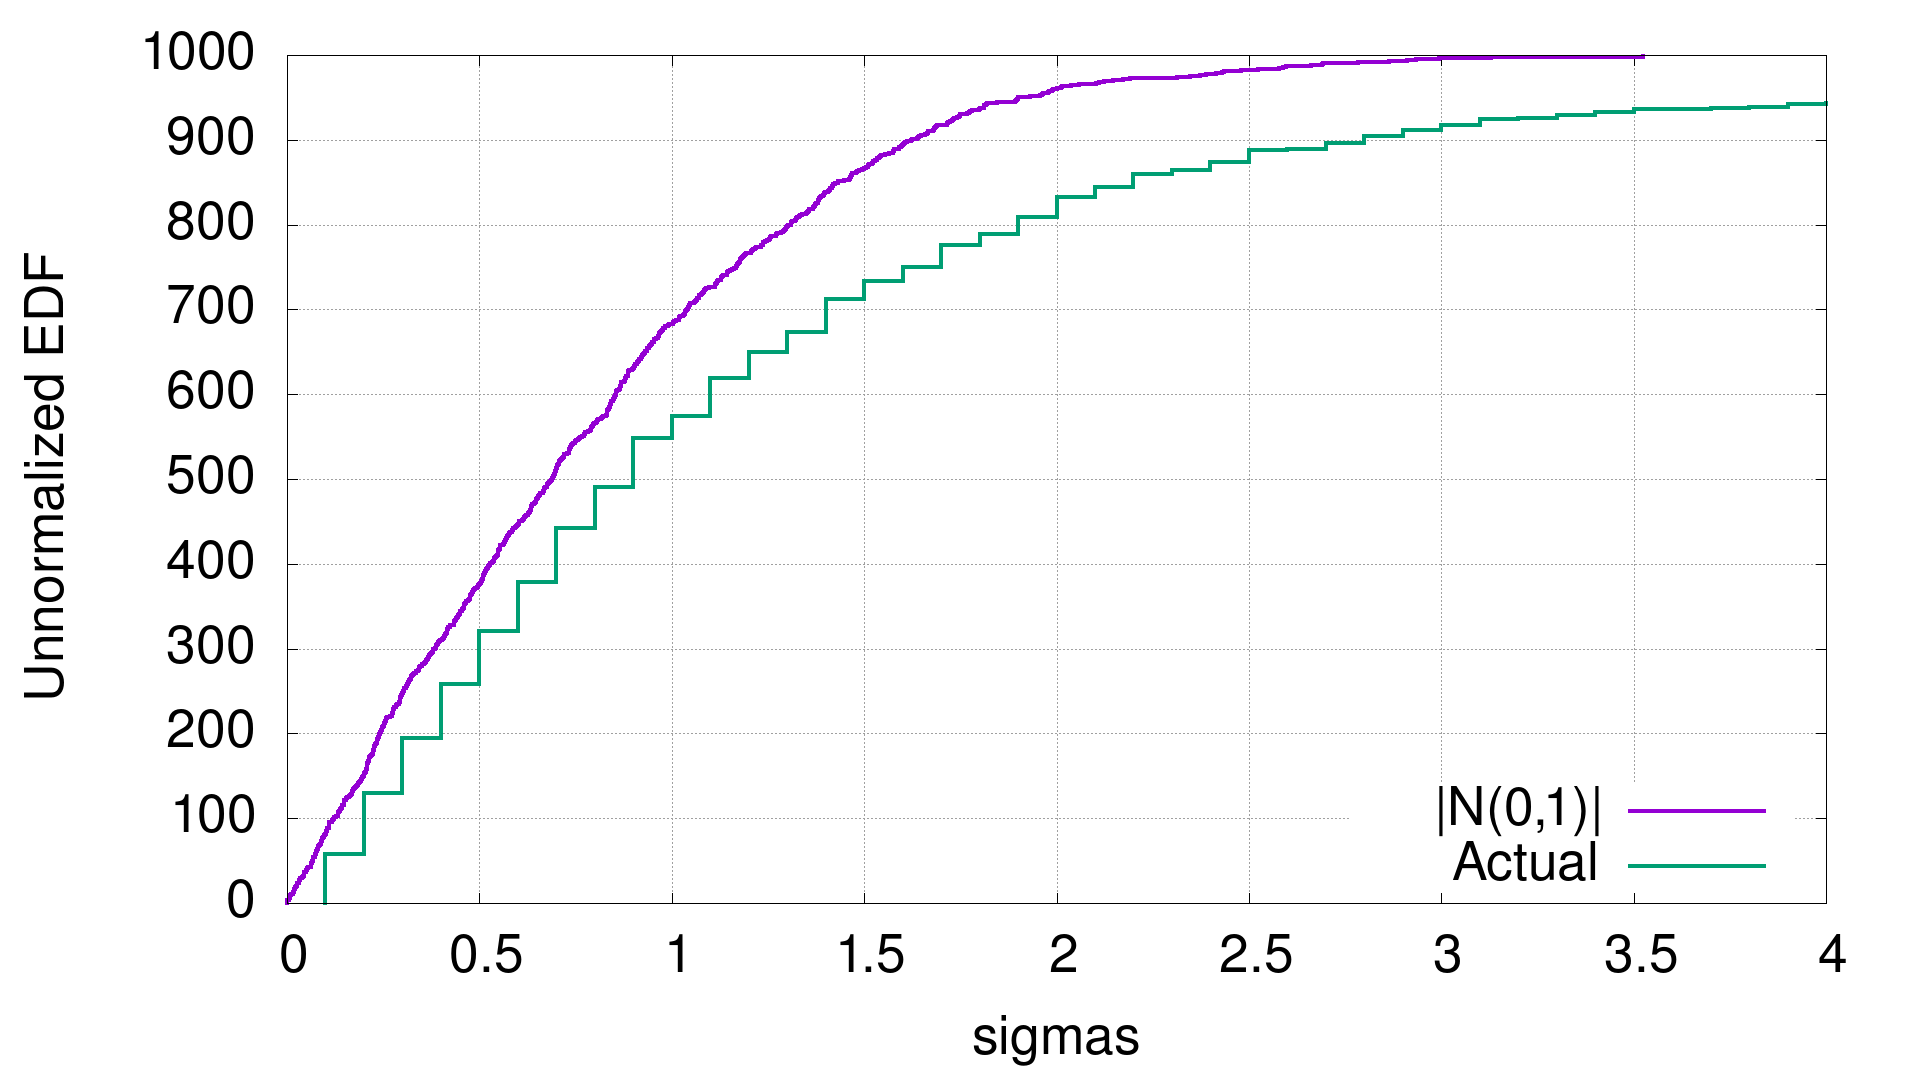
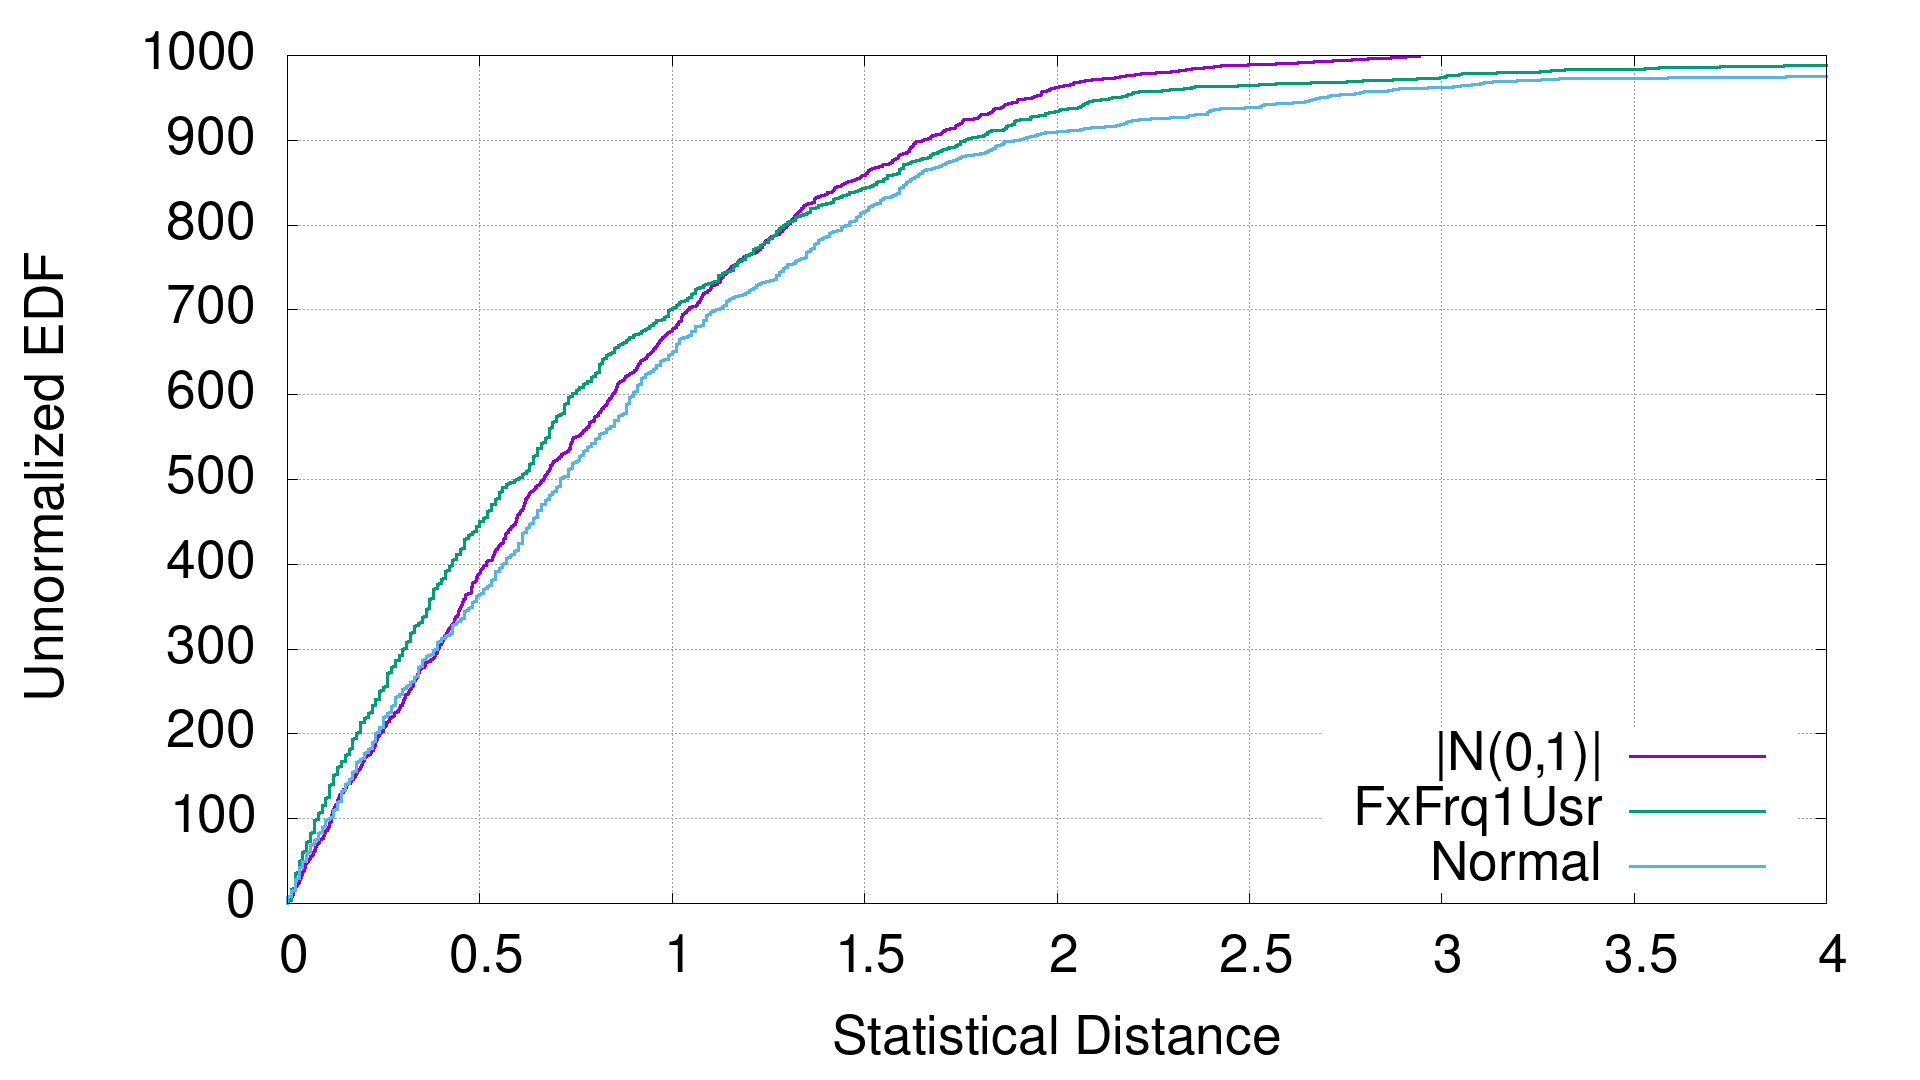
Change from pretty uncontrolled AlderLake to more controlled i7-6700k and include data for controlled up to specially written `init` or Linux scheduling modes.  Update text accordingly.

diff --git a/doc/tim.md b/doc/tim.md
@@ -27,7 +27,7 @@ non-independent noise violates base assumptions of most applied statistics.
 
 Solutions
 =========
-A 0-tech approach is to declare differences less than 2..10X "uninteresting".
+A **0-tech** approach is to declare differences less than 2-10X "uninteresting".
 While not invalid, **practical difficulties** remain.  You cannot always control
 what other people find "interesting".  It's also not rare that "interesting"
 deltas can be composed of improvement with many smaller stages which then still
@@ -124,22 +124,26 @@ c=$(printf '%1000s\n' | sed 's/ /: /g')
 eval tim -d0 $c|grep apart|awk '{print $2}'|sort -g>/tmp/a
 # plot '/tmp/a' u 1:0 w step  # gnuplot datum idx vs. val
 ```
-produces for me (under `taskset 0xF chrt 99` on an otherwise "idle" AlderLake
-CPU with the GoldenCove cores running Linux 6.1.1)[^7]:
+produces for me (normal = under `taskset 0xE chrt 99` on an otherwise "idle"
+i7-6700k CPU running Linux 6.1.1 with X11, a no-tabs browser, a few terminals,
+the network stack and so on running, but zero load)[^7]:
 ![tim EDF plot](tim.png)
-"As a unit", the dist is not so far from Gaussian sigma expectations below 1.5,
-but even with best 3/10, we see **substantial (>5%) sampling in the heavy** 4+
-sigma area.  From this plot, selecting `--dist` to decide "reproducible" can
-be.. challenging.  This challenge **spills over** into any better-worse
-comparisons since deltas big enough to be significant may need to be many
-"sigma" apart.[^8]
+For reference, abs(N(0,1)) and a rebooted BIOS-fixed frequency single-user also
+taskset/chrt'd plot are also included.  As a "unit", `dist` is close (in
+complementary probability) to Gaussian at <1.5, but the divergence gets bad past
+2 Gauss sigmas (with 2X or 3X errors depending on special boot mode or not).  By
+3 sigma rare events happen **over 50X** more often than Gaussian.[^8]  Even with
+best 3/10, **tails are very heavy**.  Even selecting `--dist` to decide
+"reproducible" can be.. challenging.  This **challenge spills over** into any
+better-worse comparisons since deltas big enough to be significant may need to
+be many "sigma" apart.[^9]
 
 A plot of your own test environments can perhaps show how bad this may be for
 you, but it is, again, non-stationary/competing work dependent.  Whatever level
 of stationarity occurs, shape & scale of the distribution likely also vary with
 time scale of the measured program.  So, trying to measure/memorize it is hard.
 **Playing with `--best` & `--run` to rein in the tail** at various scales seems
-more likely to be productive of better measurements.[^9]  `tim` does support
+more likely to be productive of better measurements.[^10]  `tim` does support
 `~/.config/tim` for setting defaults if you find some you like.
 
 In light of all this, this best n of m idea twice is only a "something is better
@@ -187,9 +191,13 @@ dispatch overhead or want 3.21x faster "ratios".
 
 [^7]: |N(0,1)| came from just taking absolute values of 1000 unit normals.
 
-[^8]: I use "sigma" here loosely as a general scale parameter, not the scale of
+[^8]: For that graph, at 4 the special mode is also 1.1% vs 2.4% for normal.
+So, special boots *can* help (by 2.2X even), but the tail remains quite heavy.
+The max distance is 8.0 for the special boot mode and 14.5 for the normal mode.
+
+[^9]: I use "sigma" here loosely as a general scale parameter, not the scale of
 a Gaussian/Normal distribution.  Particle physics has "5 sigma" rules of thumb
 to declare new science in a similar vein.  5 seems too small for this context.
 
-[^9]: and playing with `err = avg(abs(t - tMin))` definitions seems a path to
+[^10]: Playing with `err = avg(abs(t - tMin))` definitions also seems a path to
 more reproducible error estimates.
